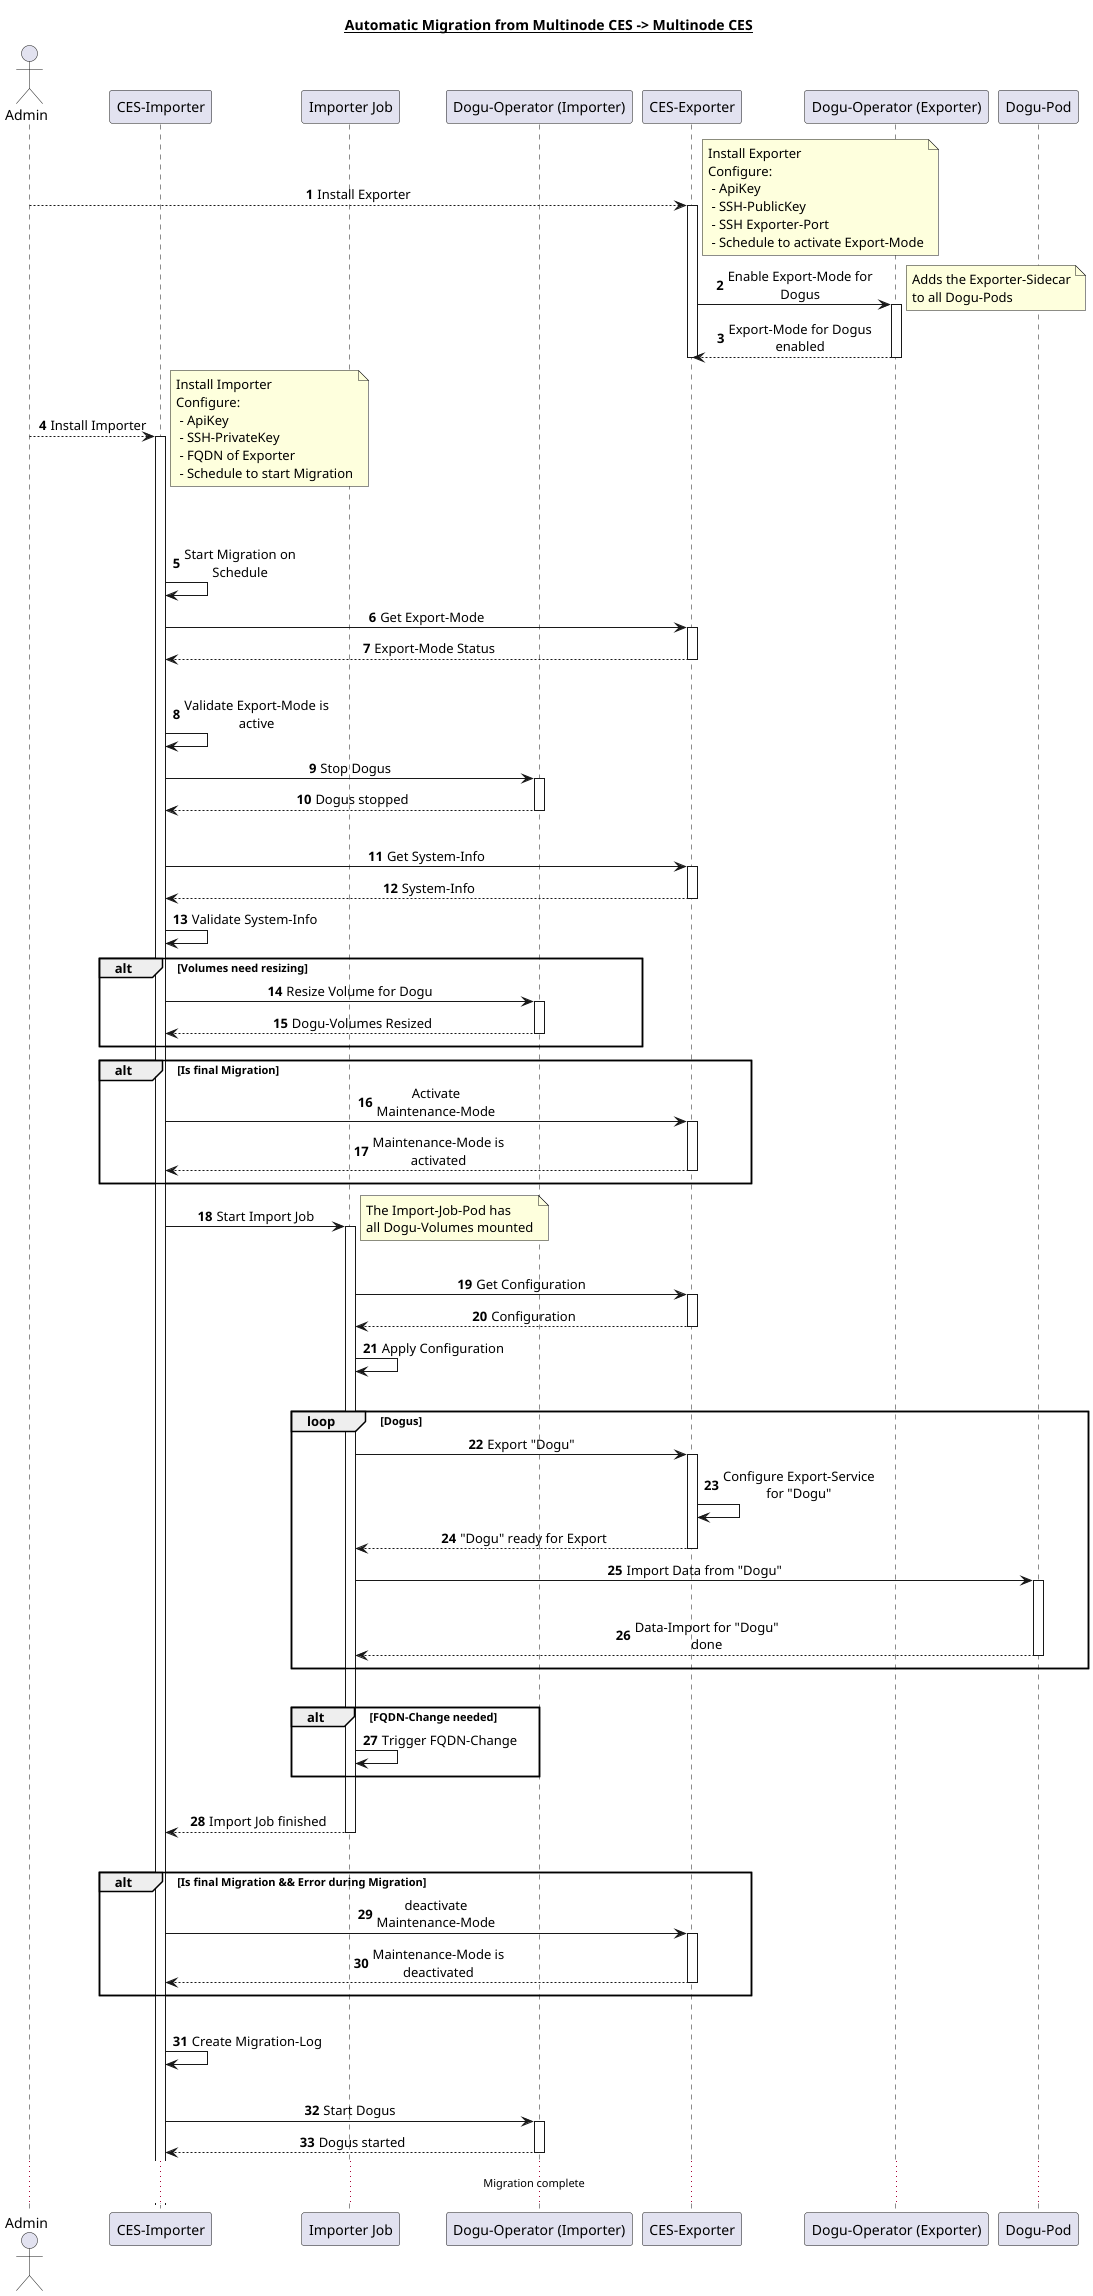
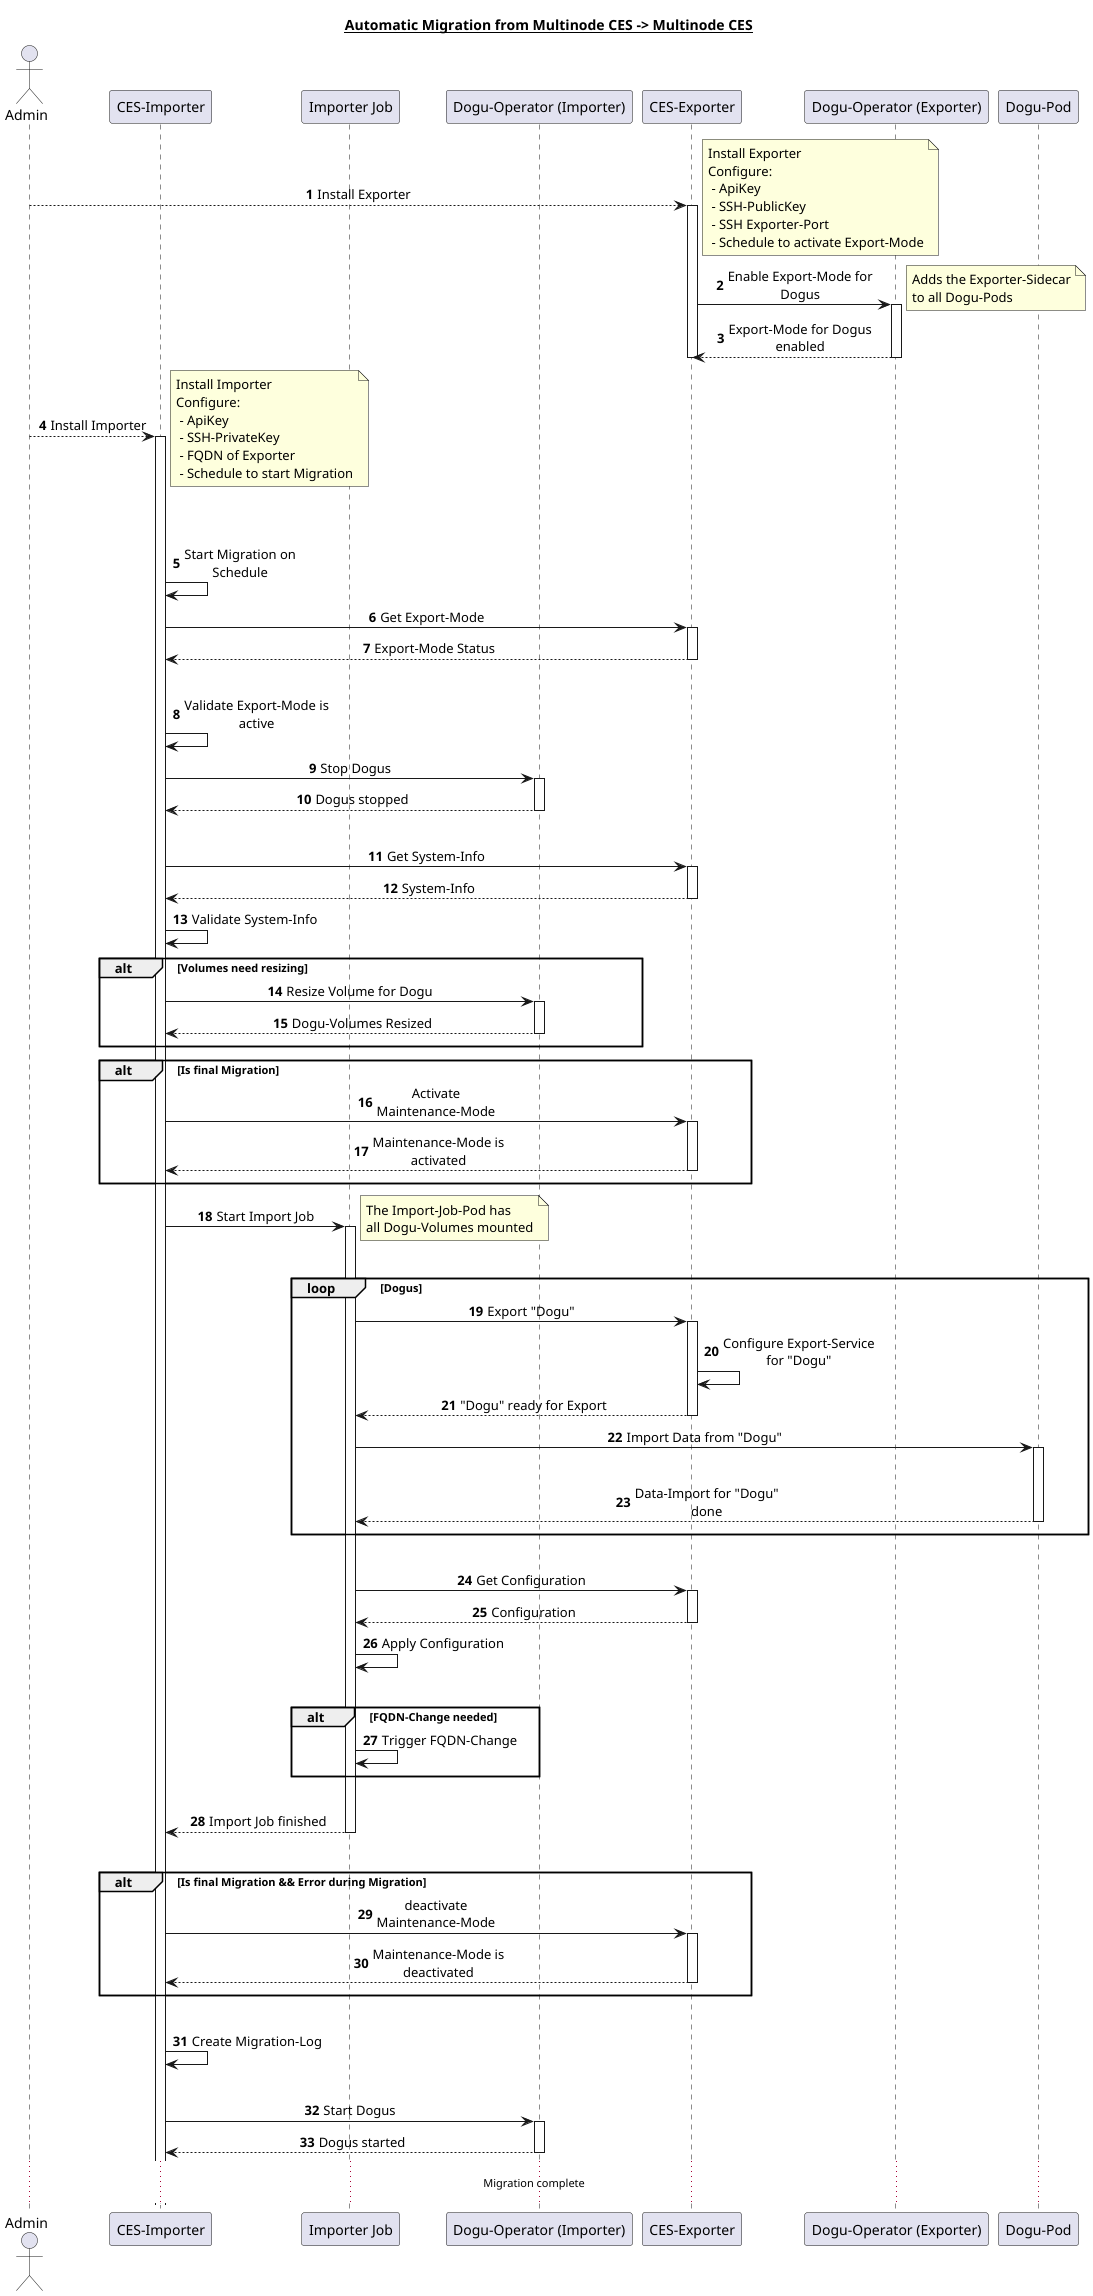
fixed volume export-path & updated sequence-diagram

diff --git a/export/classic.go b/export/classic.go
@@ -40,7 +40,7 @@ func (c *ClassicExportModeProvider) GetExportDogu(_ context.Context) (*doguExpor
 
 	dE := &doguExport{
 		Dogu:         dogu,
-		VolumePath:   path.Join(dataVolumePath, dogu),
+		VolumePath:   createVolumePath(dogu),
 		ExporterPort: c.config.ClassicExportPort,
 	}
 	return dE, nil
@@ -56,7 +56,7 @@ func (c *ClassicExportModeProvider) SetExportDogu(_ context.Context, doguName st
 
 	dE := &doguExport{
 		Dogu:         dogu,
-		VolumePath:   path.Join(dataVolumePath, dogu),
+		VolumePath:   createVolumePath(dogu),
 		ExporterPort: c.config.ClassicExportPort,
 	}
 	return dE, nil
@@ -121,6 +121,10 @@ func (c *ClassicExportModeProvider) checkDogu(dogu string) (string, error) {
 		return "", fmt.Errorf("can not get dogu %s", dogu)
 	}
 	return dogu, nil
+}
+
+func createVolumePath(doguName string) string {
+	return path.Join(dataVolumePath, doguName, dataVolumeSubDir)
 }
 
 func (e *ExecClient) GetAllDogus() ([]string, error) {

diff --git a/export/classic_test.go b/export/classic_test.go
@@ -25,7 +25,7 @@ func TestCGetExportDogu(t *testing.T) {
 
 		require.Equal(t, 7022, dogu.ExporterPort)
 		require.Equal(t, "test_A", dogu.Dogu)
-		require.Equal(t, "/data/test_A", dogu.VolumePath)
+		require.Equal(t, "/data/test_A/volumes", dogu.VolumePath)
 	})
 }
 
@@ -41,7 +41,7 @@ func TestCSetExportDogu(t *testing.T) {
 
 		require.Equal(t, 7022, dogu.ExporterPort)
 		require.Equal(t, "test_A", dogu.Dogu)
-		require.Equal(t, "/data/test_A", dogu.VolumePath)
+		require.Equal(t, "/data/test_A/volumes", dogu.VolumePath)
 	})
 	t.Run("fail on export non existent dogu", func(t *testing.T) {
 		config := core.Configuration{ClassicExportPort: 7022}

diff --git a/export/api.go b/export/api.go
@@ -8,7 +8,8 @@ import (
 )
 
 const (
-	dataVolumePath = "/data"
+	dataVolumePath   = "/data"
+	dataVolumeSubDir = "/volumes"
 )
 
 type Provider interface {
